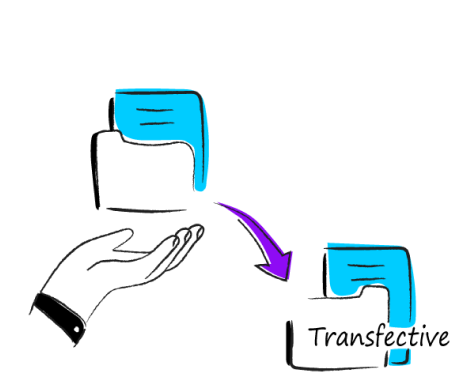
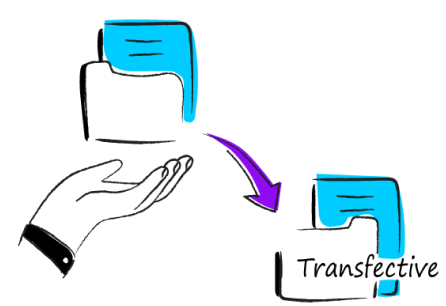
our process completed

diff --git a/css/style.css b/css/style.css
@@ -686,8 +686,8 @@ label {
     font-size: 35px;
     line-height: 40px;
   }
-  .our-process-right {
-    display: none;
+  .our-process-right img {
+    width: 147px;
   }
 }
 @media screen and (min-width: 576px) and (max-width: 768px) {
@@ -695,8 +695,8 @@ label {
     font-size: 35px;
     line-height: 40px;
   }
-  .our-process-right {
-    display: none;
+  .our-process-right img {
+    width: 200px;
   }
 }
 .bg-need-project {
@@ -723,6 +723,12 @@ label {
   .need-project .need-project-desc p {
     font-size: 16px;
     line-height: 26px;
+  }
+}
+@media screen and (min-width: 576px) and (max-width: 768px) {
+  .need-project .need-project-title h3 {
+    font-size: 40px;
+    line-height: 54px;
   }
 }
 .bg-core-value {
@@ -1155,6 +1161,14 @@ label {
     color: #6d6d6d;
     margin-top: 10px;
   }
+  .world-wide-area .section-top .arrow-shape {
+    top: 50px;
+    left: -21px;
+  }
+  .world-wide-area .section-top .arrow-shape img {
+    width: 100px;
+    transform: rotate(-41deg);
+  }
 }
 @media screen and (min-width: 576px) and (max-width: 767px) {
   .world-wide-area .section-top {
@@ -1204,17 +1218,52 @@ label {
     transform: rotate(-50deg);
   }
   .world-wide-area .card-wrapper .card-elements {
-    width: 200px;
-    height: 200px;
+    width: 250px;
+    height: 250px;
   }
   .world-wide-area .card-wrapper .card-elements .circle-elements .icon-area img {
-    width: 60px;
+    width: 70px;
     height: auto;
   }
   .world-wide-area .card-wrapper .card-elements .elements-title h4 {
-    font-size: 30px;
-    line-height: 30px;
-    margin-top: 10px;
+    font-size: 40px;
+    line-height: 40px;
+    margin-top: 20px;
+  }
+  .world-wide-area .card-wrapper .card-elements .elements-desc {
+    margin-top: 12px;
+  }
+  .world-wide-area .card-wrapper .card-elements .elements-desc {
+    padding: 0px 12px;
+  }
+}
+@media screen and (min-width: 992px) and (max-width: 1199px) {
+  .world-wide-area .section-top {
+    padding: 0px 200px;
+  }
+  .section-top .section-title h2 {
+    font-size: 34px;
+    line-height: 59px;
+  }
+  .world-wide-area .section-top .arrow-shape {
+    top: 56px;
+    left: 100px;
+  }
+  .world-wide-area .card-wrapper .card-elements {
+    width: 250px;
+    height: 250px;
+  }
+  .world-wide-area .card-wrapper .card-elements .circle-elements .icon-area img {
+    width: 70px;
+    height: auto;
+  }
+  .world-wide-area .card-wrapper .card-elements .elements-title h4 {
+    font-size: 40px;
+    line-height: 40px;
+    margin-top: 20px;
+  }
+  .world-wide-area .card-wrapper .card-elements .elements-desc {
+    margin-top: 12px;
   }
   .world-wide-area .card-wrapper .card-elements .elements-desc {
     padding: 0px 12px;

diff --git a/assets/scss/Pages/home/_wordWideArea.scss b/assets/scss/Pages/home/_wordWideArea.scss
@@ -138,6 +138,17 @@
         color: #6d6d6d;
         margin-top: 10px;
     }
+
+    .world-wide-area .section-top .arrow-shape {
+        top: 50px;
+        left: -21px;
+
+        img {
+            width: 100px;
+
+            transform: rotate(-41deg);
+        }
+    }
 }
 
 @media screen and (min-width:576px) and (max-width:767px) {
@@ -186,10 +197,11 @@
         padding: 0px 0px;
     }
 
-   .section-top .section-title h2 {
-       font-size: 46px;
-       line-height: 66px;
-   }
+    .section-top .section-title h2 {
+        font-size: 46px;
+        line-height: 66px;
+    }
+
     .world-wide-area .section-top .arrow-shape {
         top: 70px;
         left: -30px;
@@ -201,19 +213,67 @@
     }
 
     .world-wide-area .card-wrapper .card-elements {
-        width: 200px;
-        height: 200px;
+        width: 250px;
+        height: 250px;
     }
 
     .world-wide-area .card-wrapper .card-elements .circle-elements .icon-area img {
-        width: 60px;
+        width: 70px;
         height: auto;
     }
 
     .world-wide-area .card-wrapper .card-elements .elements-title h4 {
-        font-size: 30px;
-        line-height: 30px;
-        margin-top: 10px;
+        font-size: 40px;
+        line-height: 40px;
+        margin-top: 20px;
+    }
+
+    .world-wide-area .card-wrapper .card-elements .elements-desc {
+        margin-top: 12px;
+    }
+
+    .world-wide-area .card-wrapper .card-elements .elements-desc {
+        padding: 0px 12px;
+    }
+}
+
+@media screen and (min-width:992px) and (max-width:1199px) {
+    .world-wide-area .section-top {
+        padding: 0px 200px;
+    }
+
+    .section-top .section-title h2 {
+        font-size: 34px;
+        line-height: 59px;
+    }
+
+
+
+    .world-wide-area .section-top .arrow-shape {
+        top: 56px;
+        left: 100px;
+
+
+    }
+
+    .world-wide-area .card-wrapper .card-elements {
+        width: 250px;
+        height: 250px;
+    }
+
+    .world-wide-area .card-wrapper .card-elements .circle-elements .icon-area img {
+        width: 70px;
+        height: auto;
+    }
+
+    .world-wide-area .card-wrapper .card-elements .elements-title h4 {
+        font-size: 40px;
+        line-height: 40px;
+        margin-top: 20px;
+    }
+
+    .world-wide-area .card-wrapper .card-elements .elements-desc {
+        margin-top: 12px;
     }
 
     .world-wide-area .card-wrapper .card-elements .elements-desc {

diff --git a/index.html b/index.html
@@ -289,6 +289,7 @@
     <section class="world-wide-area pt-xs-40 pb-xs-40
     pt-sm-40 pb-sm-40
     pt-md-50 pb-md-50
+    pt-lg-50 pb-lg-50
     pt-80 pb-90">
         <div class="container">
             <div class="row">
@@ -332,7 +333,9 @@
                 <!-- card two -->
                 <div class="col-6 col-lg-3">
                     <div class="card-wrapper">
-                        <div class="card-elements mt-xs-10 mt-sm-30 mt-140">
+                        <div class="card-elements mt-xs-10 mt-sm-30 
+                        mt-md-50
+                        mt-140">
                             <div class="circle-elements">
                                 <div class="icon-area">
                                     <img src="images/world-wide/icon-2.svg" alt="icon">
@@ -377,7 +380,9 @@
                 <!-- card four -->
                 <div class="col-6 col-lg-3">
                     <div class="card-wrapper">
-                        <div class="card-elements mt-xs-10 mt-sm-20 mt-140">
+                        <div class="card-elements mt-xs-10 mt-sm-20 
+                        mt-md-40
+                        mt-140">
                             <div class="circle-elements">
                                 <div class="icon-area">
                                     <img src="images/world-wide/icon-4.svg" alt="icon">

diff --git a/assets/scss/Pages/home/_process.scss b/assets/scss/Pages/home/_process.scss
@@ -16,9 +16,11 @@
             color: #6D6D6D;
         }
     }
-    .our-process-right{
+
+    .our-process-right {
         position: relative;
-        .star-img{
+
+        .star-img {
             position: absolute;
             right: 0px;
         }
@@ -32,7 +34,9 @@
     }
 
     .our-process-right {
-        display: none;
+        img {
+            width: 147px;
+        }
     }
 }
 
@@ -43,8 +47,13 @@
     }
 
     .our-process-right {
-        display: none;
+        img {
+            width: 200px;
+        }
     }
+
+
+
 }
 
 
@@ -82,5 +91,12 @@
     .need-project .need-project-desc p {
         font-size: 16px;
         line-height: 26px;
+    }
+}
+
+@media screen and (min-width:576px) and (max-width:768px) {
+    .need-project .need-project-title h3 {
+        font-size: 40px;
+        line-height: 54px;
     }
 }
